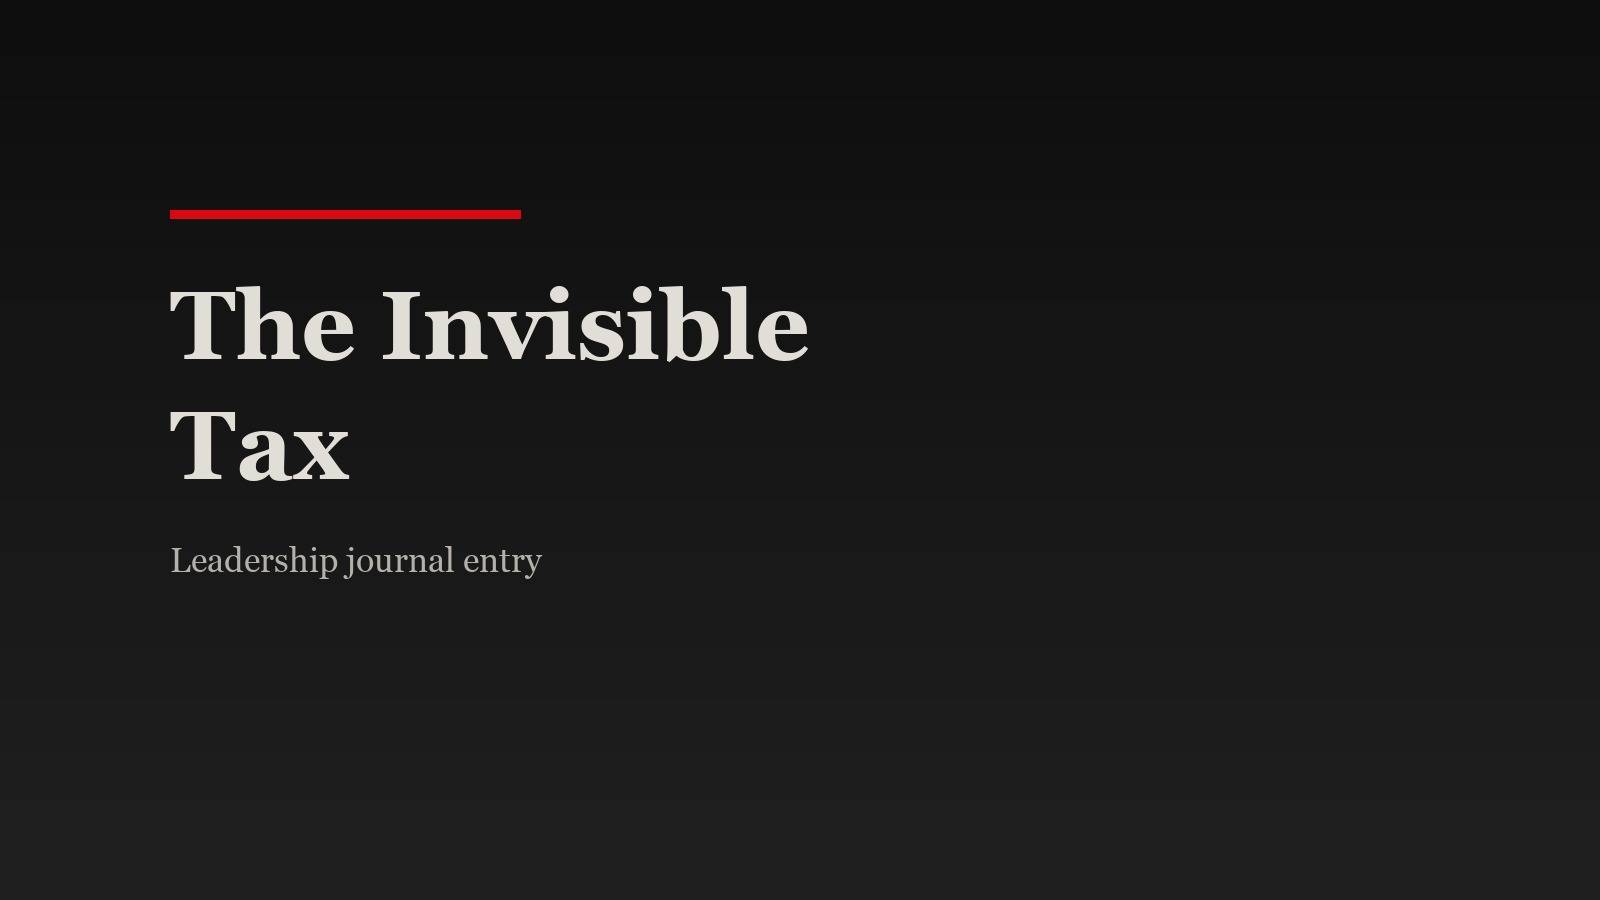
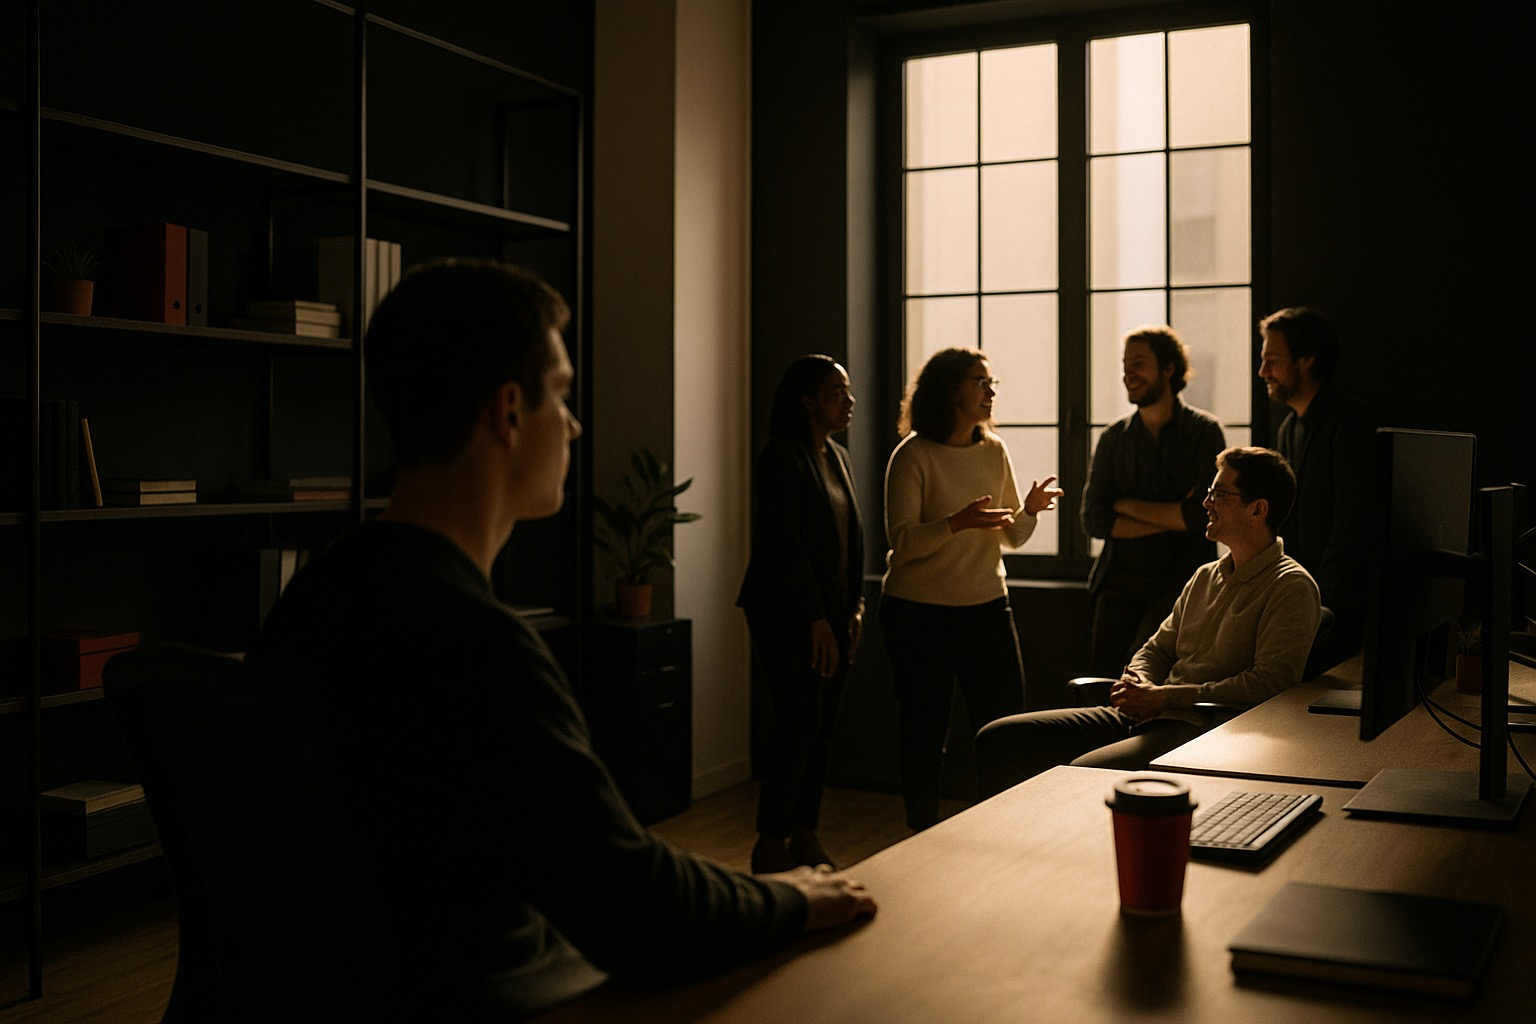
Fix featured_image paths and add missing journal header images

diff --git a/ao-knowledge-hq-kit/journal/affinity-dressed-as-service.md b/ao-knowledge-hq-kit/journal/affinity-dressed-as-service.md
@@ -9,7 +9,7 @@ summary: >-
 categories:
   - servant-leadership
   - leadership
-featured_image: ../images/journal-header-affinity-dressed-as-service.png
+featured_image: ../images/affinity-dressed-as-service.jpg
 takeaways:
   []
 applications: []

diff --git a/ao-knowledge-hq-kit/journal/the-approval-economy.md b/ao-knowledge-hq-kit/journal/the-approval-economy.md
@@ -9,7 +9,7 @@ summary: >-
 categories:
   - servant-leadership
   - leadership
-featured_image: ../images/journal-header-the-approval-economy.png
+featured_image: ../images/the-approval-economy.jpg
 takeaways:
   []
 applications: []

diff --git a/ao-knowledge-hq-kit/journal/the-invisible-tax.md b/ao-knowledge-hq-kit/journal/the-invisible-tax.md
@@ -9,7 +9,7 @@ summary: >-
 categories:
   - servant-leadership
   - leadership
-featured_image: ../../public/images/the-invisible-tax.jpg
+featured_image: ../images/the-invisible-tax.jpg
 takeaways:
   []
 applications: []